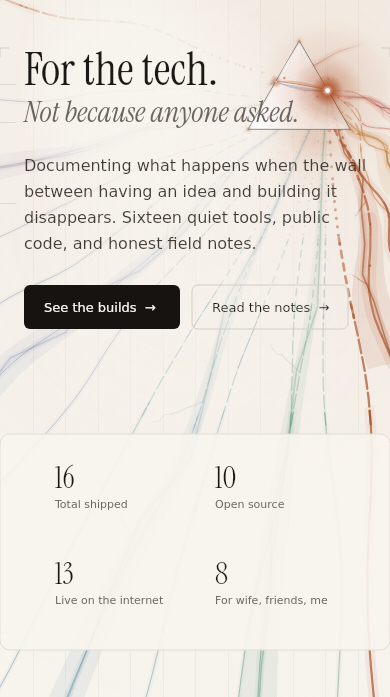
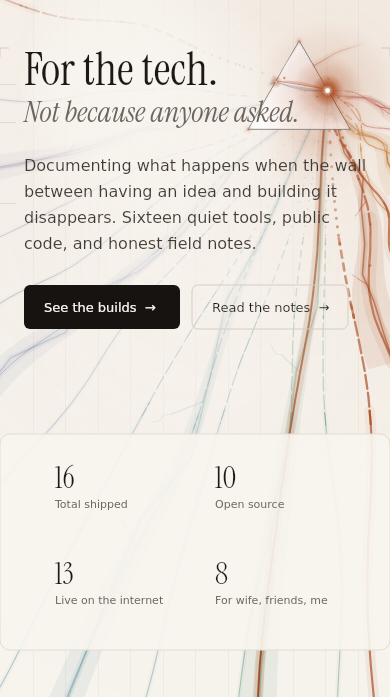
feat(hero): one prime line grows out of the dot
The fan is a continuum read all at once; this adds the one stroke that is read as a
gesture, so the section has a single line the eye can follow out of the glass.

- The prime lane is chosen by direction, not by band: the spine that leaves the prism
  horizontally on desktop, straight down on portrait. It takes the clay hue whatever band
  it landed on — it is the accent of the hero, not a member of the fan.
- Growth rides the scene clock: a seed dot at the origin, then a bright head that draws the
  line along its lane over 1.9 s, decelerating into the lane. A composed still (t = 4.6 s)
  is always the finished line, so reduced motion never sees it half-drawn.
- Finished, it is the heaviest stroke in the field: 2.1 px clay body, a 10 px haze and a hot
  core, where every other strand is specks, dashes or a 1 px hairline.
- The seed dot stays pinned at the origin after the line is drawn, which is what makes the
  core read as a source rather than a blob.

QA gains one invariant — "one prime line grows out of the dot, on the open lane" — and the
suite now also writes a mid-draw still (phase7-page-1440x780-growth.png).

diff --git a/src/components/sections/hero-ray.ts b/src/components/sections/hero-ray.ts
@@ -93,6 +93,13 @@ const JITTER_FPS = 24;
 
 /* ---------------------------------------------------------------- interaction */
 
+/**
+ * The prime line: one strand leaves the origin as a single dot and grows into a line. The
+ * growth is on the scene clock, so a still (time = 4.6 s) is always the finished line.
+ */
+const PRIME_DELAY_S = 0.45;
+const PRIME_DRAW_S = 1.9;
+
 /** A surge's whole life, and the pointer's follow time constant. */
 const SURGE_LIFE_MS = 950;
 const POINTER_TAU_MS = 80;
@@ -320,6 +327,8 @@ export type HeroGeometry = {
   grounds: { from: Vec; to: Vec; band: number }[];
   /** the angular sweep of the fan, in degrees: QA + the docs quote it */
   sweep: { from: number; to: number };
+  /** index of the prime strand: the one line that grows out of the dot */
+  prime: number;
 };
 
 const onFacet = (a: Vec, b: Vec, t: number): Vec => ({
@@ -632,6 +641,28 @@ export function createHeroRay(options: HeroRayOptions = {}) {
       );
     }
 
+    /**
+     * The prime line: the one strand that grows out of the dot.
+     *
+     * It takes the lane that leaves the glass horizontally (on portrait: straight down), and
+     * it takes the clay hue whatever band it landed on — the accent is the point, this is the
+     * single stroke the eye is meant to follow. Its growth is on the scene clock, so a still
+     * is always the finished line and reduced motion never sees it half-drawn.
+     */
+    const primeTarget = (mobile ? 92 : 0) * DEG;
+    let prime = 0;
+    let primeGap = Number.POSITIVE_INFINITY;
+    for (const strand of strands) {
+      if (strand.ghost) continue;
+      // Spines only: a hairline cannot carry an accent.
+      if (strand.ribbon <= 0) continue;
+      const gap = Math.abs(strand.angle - primeTarget);
+      if (gap < primeGap) {
+        primeGap = gap;
+        prime = strand.index;
+      }
+    }
+
     const targets = strands.map((strand) => ({
       x: core.x + strand.dir.x * strand.length,
       y: core.y + strand.dir.y * strand.length,
@@ -679,6 +710,7 @@ export function createHeroRay(options: HeroRayOptions = {}) {
       spans: strands.map((strand) => strand.length),
       grounds,
       sweep,
+      prime,
     };
     version += 1;
   };
@@ -1200,6 +1232,112 @@ export function createHeroRay(options: HeroRayOptions = {}) {
         ctx.stroke();
         ctx.strokeStyle = gradient;
       }
+    }
+
+    ctx.globalAlpha = 1;
+  };
+
+  /**
+   * The prime line — "one line should come: it starts as a dot, then it becomes a line."
+   *
+   * Every other strand in the field is a continuum read all at once. This one is read as a
+   * *gesture*: a single point of light at the origin, then a short comet tail, then a line
+   * that keeps extending along its lane until it leaves the frame. It is drawn first and
+   * heaviest of the whole fan — solid where the others are still specks — so the eye follows
+   * it out of the glass before it notices the fan at all.
+   *
+   * The growth rides the scene clock, which means a composed still (t = 4.6 s) is always the
+   * finished line, and reduced motion never sees a half-drawn one.
+   */
+  const drawPrime = (ctx: Ctx) => {
+    if (!geo) return;
+    const strand = geo.strands[geo.prime];
+    const buf = strandBufs[geo.prime];
+    if (!strand || !buf) return;
+    // Clay, whatever band the prime lane landed on: this is the accent stroke of the hero.
+    const band = BANDS[2];
+    const colour = isDark ? band.dark : band.light;
+    const voice = bandVoice(strand.band) * strand.alpha;
+
+    const raw = clamp((time - PRIME_DELAY_S) / PRIME_DRAW_S, 0, 1);
+    // Decelerating growth: the head leaves fast and settles into its lane.
+    const grown = raw >= 1 ? 1 : 1 - Math.pow(1 - raw, 3);
+    // A minimum of two samples, so the first frames are a dot rather than nothing.
+    const head = Math.max(2, Math.round(grown * STRAND_STEPS));
+
+    const gradient = ctx.createLinearGradient(
+      geo.core.x,
+      geo.core.y,
+      strand.dir.x * strand.length + geo.core.x,
+      strand.dir.y * strand.length + geo.core.y,
+    );
+    gradient.addColorStop(0, rgba(colour, 0.55));
+    gradient.addColorStop(0.18, rgba(colour, 0.9));
+    gradient.addColorStop(1, rgba(colour, 1));
+
+    ctx.lineCap = "round";
+    ctx.lineJoin = "round";
+
+    // Haze: the line has body, a ruler-thin stroke does not read as light.
+    traceRange(ctx, buf, 0, head);
+    ctx.strokeStyle = gradient;
+    ctx.globalAlpha = clamp(voice * 0.22, 0, 1);
+    ctx.lineWidth = 10;
+    ctx.stroke();
+
+    // The line itself: heavier than any other stroke in the field, by design.
+    ctx.globalAlpha = clamp(voice * 0.98, 0, 1);
+    ctx.lineWidth = 2.1;
+    ctx.stroke();
+
+    // White-hot core, on ink. On paper it would vanish into the cream, so light theme keeps
+    // the saturated clay and only adds a hairline of pale ink-mixed light.
+    ctx.strokeStyle = isDark ? "rgba(255,252,246,0.9)" : rgba(mix(colour, INK, 0.18), 1);
+    ctx.globalAlpha = clamp(voice * (isDark ? 0.65 : 0.8), 0, 1);
+    ctx.lineWidth = 0.9;
+    ctx.stroke();
+
+    /**
+     * The dot it started from. While the line is still growing this is the only thing on
+     * screen; once grown it stays as the seed point at the origin, which is also why the
+     * core looks like it has a pin in it.
+     */
+    const seed = 1 - grown * 0.45;
+    const seedR = 3.4 * seed;
+    const seedGradient = ctx.createRadialGradient(
+      geo.core.x,
+      geo.core.y,
+      0,
+      geo.core.x,
+      geo.core.y,
+      seedR * 6,
+    );
+    seedGradient.addColorStop(0, isDark ? "rgba(255,255,252,0.95)" : "rgba(255,255,255,0.98)");
+    seedGradient.addColorStop(0.28, rgba(colour, 0.7));
+    seedGradient.addColorStop(1, rgba(colour, 0));
+    ctx.fillStyle = seedGradient;
+    ctx.beginPath();
+    ctx.arc(geo.core.x, geo.core.y, seedR * 6, 0, TAU);
+    ctx.fill();
+
+    // The head of the line: a bright bead that leads the growth and dissolves into the lane.
+    const headFade = 1 - Math.pow(grown, 3);
+    if (headFade > 0.02) {
+      const hx = buf[head * 2];
+      const hy = buf[head * 2 + 1];
+      const r = 14 * headFade + 5;
+      const headGlow = ctx.createRadialGradient(hx, hy, 0, hx, hy, r);
+      headGlow.addColorStop(0, isDark ? "rgba(255,255,252,0.95)" : "rgba(255,255,255,0.98)");
+      headGlow.addColorStop(0.22, rgba(colour, 0.75));
+      headGlow.addColorStop(1, rgba(colour, 0));
+      ctx.fillStyle = headGlow;
+      ctx.beginPath();
+      ctx.arc(hx, hy, r, 0, TAU);
+      ctx.fill();
+      ctx.fillStyle = isDark ? "rgba(255,252,246,0.95)" : rgba(mix(colour, INK, 0.1), 1);
+      ctx.beginPath();
+      ctx.arc(hx, hy, 1.9 * headFade + 0.6, 0, TAU);
+      ctx.fill();
     }
 
     ctx.globalAlpha = 1;
@@ -2083,6 +2221,7 @@ export function createHeroRay(options: HeroRayOptions = {}) {
       if (!geo.strands[i].ghost) drawStrand(ctx, i);
     }
     drawPlasma(ctx);
+    drawPrime(ctx);
 
     // The dissolve sits between the field and the things that must stay bright: the light
     // behind the words is thinned here, then the beam, glass, core and filaments are painted
@@ -2226,6 +2365,7 @@ export function createHeroRay(options: HeroRayOptions = {}) {
           spans: [] as number[],
           grounds: [] as { from: Vec; to: Vec; band: number }[],
           sweep: { from: 0, to: 0 },
+          prime: 0,
         }),
         version,
         /** The strand specs themselves (angle, band, span, resolve point) — QA reads these. */

diff --git a/design/hero-phase7/README.md b/design/hero-phase7/README.md
@@ -48,6 +48,24 @@ The staircase is scaled per strand by `resolve` (0.75–1.3): strands with room 
 resolve early, strands that have to cross the copy stay beaded for longer. That is why the field
 looks *alive* on the right and *distant* on the left, instead of like a symmetric firework.
 
+## 2b. One line comes out of the dot
+
+The whole fan is a continuum read at once. On top of it, **one** stroke is read as a gesture:
+
+- a single point of light at the origin (the seed dot, which then stays pinned in the core);
+- a bright head that leaves it and **draws the line** along its lane over ~1.9 s, decelerating
+  into the lane so it settles rather than stops;
+- once grown, the heaviest stroke in the field — clay, 2.1 px body, a 10 px haze and a hot core,
+  where every other strand is still specks, dashes or a 1 px hairline.
+
+It always takes the lane that leaves the glass horizontally (portrait: straight down), and it
+takes the clay hue regardless of which band it landed on: it is the accent of the hero, not a
+member of the fan. The growth rides the scene clock, so a composed still (`t = 4.6 s`) is always
+the finished line and reduced motion never sees a half-drawn one.
+
+Stills: `phase7-page-1440x780-growth.png` catches it mid-draw, `phase7-page-1440x780.png` is the
+finished line.
+
 ## 3. A prism that reads as glass
 
 The old triangle was an outline with a few chords. It is now built as an object:
@@ -92,6 +110,7 @@ grounding filaments only appear then, so the idle still has no leader lines to e
 | `phase7-page-390x820.png`              | composed with type, portrait               |
 | `phase7-engine-*.png`                  | the engine alone (from the invariant suite) |
 | `phase7-engine-*-catch.png`            | the engine with the pointer live            |
+| `phase7-page-1440x780-growth.png`      | the prime line mid-draw (0.7 s in)          |
 
 The `page` stills are composed offline from the same captured layouts the invariant suite uses
 (type is redrawn at the measured rects, so it is a faithful — not pixel-identical — proxy for
@@ -113,6 +132,7 @@ Fifteen invariants per captured layout, including the four new contracts:
 ✓ the origin sits on the exit facet, not beside it
 ✓ dots resolve into a line: every lit strand ends as a continuous filament
 ✓ the current catches the pointer, and never overshoots it
+✓ one prime line grows out of the dot, on the open lane
 ```
 
 Engine cost, measured headlessly at 1440×720 through the same `Ctx` subset:
